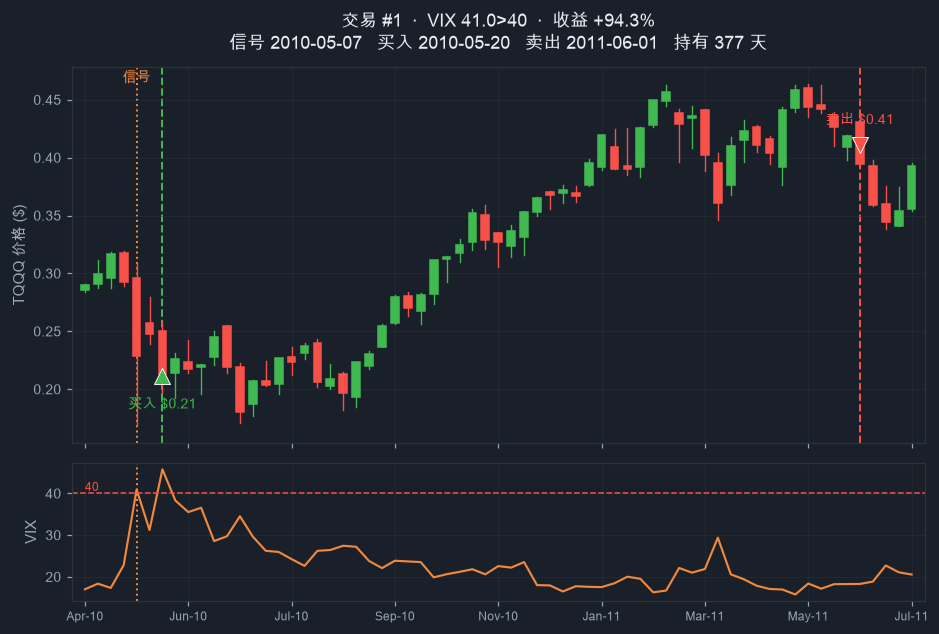
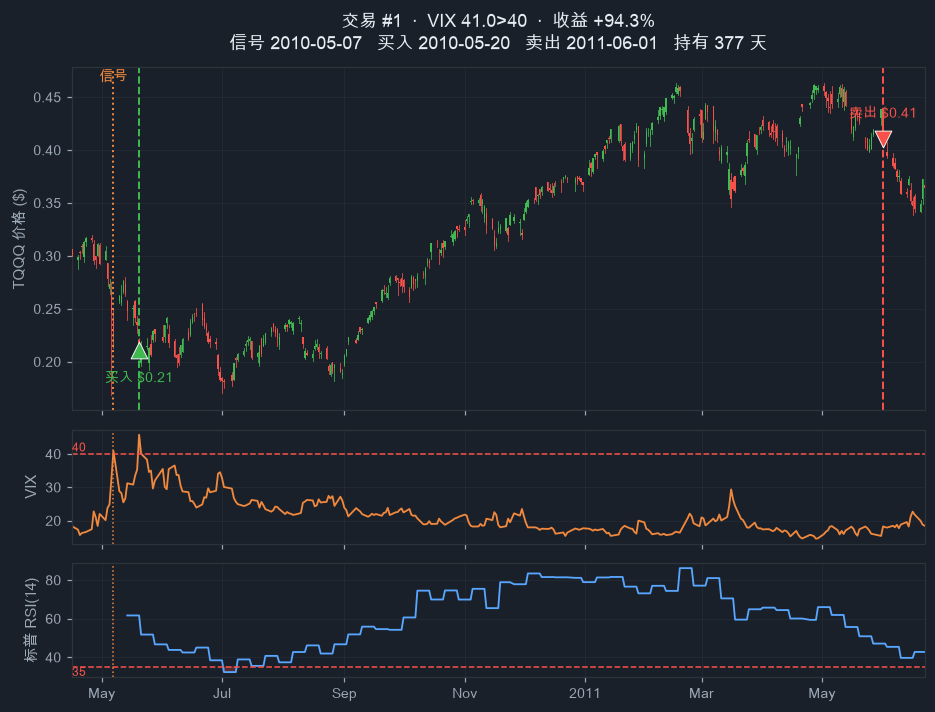
Per-trade charts: daily candles, both VIX+RSI triggers, 1yr range for open trade
Rewrites plot_trades.py to a 3-panel daily, date-axis layout: TQQQ daily
candlesticks plus both trigger panels (VIX with 40 line, S&P weekly RSI with
35 line) shown on every trade with shaded threshold crossings. Open trade
defaults to a full year from entry with a 1-year-minimum-hold reference line.

diff --git a/report.html b/report.html
@@ -165,7 +165,7 @@
   </ul>
 
   <h2>五、逐笔交易图解（按时间倒序）</h2>
-  <p class="note">每张图：上方为 <strong>TQQQ 周线 K 线</strong>，标注信号日（橙色虚线）、买入点（绿色 ▲）与卖出点（红色 ▼）及收益；下方为<strong>触发指标</strong>——VIX（含 40 线）或标普 500 周线 RSI(14)（含 35 线）。由最新交易至最早交易排列。</p>
+  <p class="note">每张图为<strong>日线</strong>三联面板：上方为 <strong>TQQQ 日 K 线</strong>，标注信号日（橙色虚线）、买入点（绿色 ▲）与卖出点（红色 ▼）及收益；中、下两栏<strong>同时展示两个触发指标</strong>——VIX（含 40 线）与标普 500 周线 RSI(14)（含 35 线），红色阴影标出越过阈值的区域（无论该笔由哪个条件触发）。仍持仓的交易默认显示<strong>自买入起 1 年</strong>的时间窗（含「1 年最低持有」参考线）。由最新交易至最早交易排列。</p>
 
   <div class="card"><img src="plots/trade_10.png" alt="交易 #10 K线图"><p class="note">#10 · 2026 年 3 月底回调（SMA RSI 28.2 触发）· 买入 $50.66 · <span class="pos">+41.8%</span> · <strong>持仓中</strong>，期末资金 $3,623,260。</p></div>
   <div class="card"><img src="plots/trade_09.png" alt="交易 #9 K线图"><p class="note">#9 · 2025 年 3 月回调（关税冲击，RSI 32.0）· 满 1 年后于 2026-03-27 标普跌破 MA100 平仓 · <span class="pos">+25.4%</span> · 期末资金 $2,555,399。</p></div>

diff --git a/src/plot_trades.py b/src/plot_trades.py
@@ -1,10 +1,14 @@
 """
 Per-trade charts for the VIX>40 buy-the-fear backtest.
 
-For each of the 10 trades, render a 2-panel chart:
-  - top:    TQQQ weekly candlesticks with signal / entry / exit markers + return
-  - bottom: the triggering indicator over the same window
-            (VIX with the 40 line, or S&P weekly RSI(14) with the 35 line)
+For each trade, render a 3-panel chart on a daily, date-based x-axis:
+  - top:    TQQQ daily candlesticks with signal / entry / exit markers + return
+  - mid:    VIX (with the 40 threshold line)        <- trigger 1
+  - bottom: S&P 500 weekly RSI(14) (with the 35 line) <- trigger 2
+
+Both triggers are always shown, whether or not they fired for that trade.
+Time range = signal..exit (+padding); for a still-open trade it defaults to a
+full year from entry so the position's intended horizon is visible.
 
 Saves plots/trade_01.png ... plots/trade_NN.png.
 """
@@ -16,8 +20,15 @@ import pandas as pd
 import matplotlib
 matplotlib.use("Agg")
 import matplotlib.pyplot as plt
+import matplotlib.dates as mdates
 from matplotlib import font_manager
 from matplotlib.patches import Rectangle
+
+sys.path.insert(0, os.path.dirname(__file__))
+from backtest import (  # noqa: E402
+    build_signals, run_backtest, load_yf,
+    DATA, PLOTS, VIX_THRESHOLD, RSI_THRESHOLD,
+)
 
 # Register a CJK-capable font so Chinese labels render (macOS).
 for _fp in ("/System/Library/Fonts/Supplemental/Arial Unicode.ttf",
@@ -28,31 +39,9 @@ for _fp in ("/System/Library/Fonts/Supplemental/Arial Unicode.ttf",
         break
 plt.rcParams["axes.unicode_minus"] = False
 
-sys.path.insert(0, os.path.dirname(__file__))
-from backtest import (  # noqa: E402
-    build_signals, run_backtest, load_yf, rsi,
-    DATA, PLOTS, RSI_PERIOD, VIX_THRESHOLD, RSI_THRESHOLD,
-)
-
 BG = "#1a2029"; GRID = "#2d333b"; INK = "#e6edf3"; MUTED = "#9aa7b4"
-UP = "#3fb950"; DOWN = "#f85149"; ORANGE = "#f0883e"; BLUE = "#58a6ff"
-
-
-def weekly_ohlc(df):
-    """Resample daily OHLC to weekly (Friday-ending) candles."""
-    w = pd.DataFrame({
-        "Open": df["Open"].resample("W-FRI").first(),
-        "High": df["High"].resample("W-FRI").max(),
-        "Low": df["Low"].resample("W-FRI").min(),
-        "Close": df["Close"].resample("W-FRI").last(),
-    }).dropna()
-    return w
-
-
-def xpos(idx, date):
-    """X index of the weekly candle containing `date`."""
-    pos = idx.searchsorted(pd.Timestamp(date))
-    return min(int(pos), len(idx) - 1)
+UP = "#3fb950"; DOWN = "#f85149"; ORANGE = "#f0883e"; BLUE = "#58a6ff"; GREY = "#6e7681"
+PAD = pd.Timedelta(days=21)
 
 
 def style_ax(ax):
@@ -64,14 +53,9 @@ def style_ax(ax):
 
 
 def main():
-    df = build_signals()
+    df = build_signals()                       # daily: vix_close, weekly_rsi, ...
     trades, _ = run_backtest(df)
-
     tqqq = load_yf(os.path.join(DATA, "tqqq_data.csv"))
-    vix = load_yf(os.path.join(DATA, "vix_data.csv"))
-    spx = load_yf(os.path.join(DATA, "sp500_data.csv"))
-    weekly_rsi = rsi(spx["Close"].resample("W-FRI").last(), RSI_PERIOD)
-    weekly_vix = vix["Close"].resample("W-FRI").max()
     last_date = tqqq.index[-1]
 
     for i, t in trades.iterrows():
@@ -81,85 +65,96 @@ def main():
         exit_d = pd.Timestamp(t["Exit_Date"])
         is_open = t.get("Open_At_End") is True
 
-        start = sig - pd.Timedelta(weeks=4)
-        end = min(exit_d + pd.Timedelta(weeks=4), last_date)
-        w = weekly_ohlc(tqqq.loc[start:end])
-        idx = w.index
-        span = float(w["High"].max() - w["Low"].min()) or 1.0
+        start = sig - PAD
+        end = (ent + pd.Timedelta(days=365)) if is_open else (exit_d + PAD)
+        data_end = min(end, last_date)
+        tq = tqqq.loc[start:data_end]
+        dd = df.loc[start:data_end]
+        span = float(tq["High"].max() - tq["Low"].min()) or 1.0
 
-        fig, (ax1, ax2) = plt.subplots(
-            2, 1, figsize=(10, 6.3), sharex=True,
-            gridspec_kw={"height_ratios": [3, 1.1], "hspace": 0.08})
+        fig, (ax1, ax2, ax3) = plt.subplots(
+            3, 1, figsize=(10, 7.2), sharex=True,
+            gridspec_kw={"height_ratios": [3, 1, 1], "hspace": 0.10})
         fig.patch.set_facecolor(BG)
-        style_ax(ax1); style_ax(ax2)
+        for ax in (ax1, ax2, ax3):
+            style_ax(ax)
 
-        # --- candlesticks ---
-        for j, (_, r) in enumerate(w.iterrows()):
+        # --- daily candlesticks ---
+        for dt, r in tq.iterrows():
+            x = mdates.date2num(dt)
             color = UP if r["Close"] >= r["Open"] else DOWN
-            ax1.plot([j, j], [r["Low"], r["High"]], color=color, lw=0.9, zorder=2)
+            ax1.plot([x, x], [r["Low"], r["High"]], color=color, lw=0.5, zorder=2)
             lo, hi = sorted((r["Open"], r["Close"]))
-            ax1.add_patch(Rectangle((j - 0.3, lo), 0.6, max(hi - lo, span * 0.003),
-                                    facecolor=color, edgecolor=color, zorder=3))
+            ax1.add_patch(Rectangle((x - 0.35, lo), 0.7, max(hi - lo, span * 0.002),
+                                    facecolor=color, edgecolor=color, lw=0, zorder=3))
 
-        xs, xe = xpos(idx, sig), xpos(idx, ent)
-        ax1.axvline(xs, color=ORANGE, ls=":", lw=1.3, zorder=1)
-        ax1.axvline(xe, color=UP, ls="--", lw=1.3, zorder=1)
-        ax1.scatter([xe], [t["Entry_Price"]], marker="^", s=110,
+        ax1.axvline(sig, color=ORANGE, ls=":", lw=1.3)
+        ax1.axvline(ent, color=UP, ls="--", lw=1.3)
+        ax1.scatter([ent], [t["Entry_Price"]], marker="^", s=120,
                     color=UP, edgecolor="white", lw=0.6, zorder=5)
-        ax1.annotate("信号", (xs, w["High"].max()), color=ORANGE, fontsize=9,
-                     ha="center", va="bottom")
-        ax1.annotate(f"买入 ${t['Entry_Price']:.2f}", (xe, t["Entry_Price"]),
+        ax1.annotate(f"买入 ${t['Entry_Price']:.2f}", (ent, t["Entry_Price"]),
                      color=UP, fontsize=9, ha="center", va="top",
                      xytext=(0, -14), textcoords="offset points")
+        ax1.annotate("信号", (sig, tq["High"].max()), color=ORANGE, fontsize=9,
+                     ha="center", va="bottom")
 
         if not is_open:
-            xx = xpos(idx, exit_d)
-            ax1.axvline(xx, color=DOWN, ls="--", lw=1.3, zorder=1)
-            ax1.scatter([xx], [t["Exit_Price"]], marker="v", s=110,
+            ax1.axvline(exit_d, color=DOWN, ls="--", lw=1.3)
+            ax1.scatter([exit_d], [t["Exit_Price"]], marker="v", s=120,
                         color=DOWN, edgecolor="white", lw=0.6, zorder=5)
-            ax1.annotate(f"卖出 ${t['Exit_Price']:.2f}", (xx, t["Exit_Price"]),
+            ax1.annotate(f"卖出 ${t['Exit_Price']:.2f}", (exit_d, t["Exit_Price"]),
                          color=DOWN, fontsize=9, ha="center", va="bottom",
                          xytext=(0, 12), textcoords="offset points")
             exit_lbl = exit_d.strftime("%Y-%m-%d")
         else:
+            hold_end = ent + pd.Timedelta(days=365)
+            ax1.axvline(hold_end, color=GREY, ls=":", lw=1.2)
+            ax1.annotate("1 年最低持有", (hold_end, tq["Low"].min()), color=GREY,
+                         fontsize=8, ha="right", va="bottom",
+                         xytext=(-4, 2), textcoords="offset points")
             exit_lbl = "持仓中"
 
         status = "（持仓中）" if is_open else ""
         ax1.set_title(
             f"交易 #{num}  ·  {t['Trigger']}  ·  收益 {t['Return_%']:+.1f}%{status}\n"
             f"信号 {sig:%Y-%m-%d}   买入 {ent:%Y-%m-%d}   卖出 {exit_lbl}   "
-            f"持有 {int(t['Hold_Days'])} 天",
-            color=INK, fontsize=12, pad=12)
+            f"持有 {int(t['Hold_Days'])} 天", color=INK, fontsize=12, pad=12)
         ax1.set_ylabel("TQQQ 价格 ($)", color=MUTED, fontsize=10)
 
-        # --- trigger indicator panel ---
-        if "VIX" in t["Trigger"]:
-            series = weekly_vix.reindex(idx)
-            ax2.plot(range(len(idx)), series.values, color=ORANGE, lw=1.4)
-            ax2.axhline(VIX_THRESHOLD, color=DOWN, ls="--", lw=1)
-            ax2.set_ylabel("VIX", color=MUTED, fontsize=10)
-            ax2.annotate("40", (0, VIX_THRESHOLD), color=DOWN, fontsize=8,
-                         va="bottom", ha="left")
-        else:
-            series = weekly_rsi.reindex(idx)
-            ax2.plot(range(len(idx)), series.values, color=BLUE, lw=1.4)
-            ax2.axhline(RSI_THRESHOLD, color=DOWN, ls="--", lw=1)
-            ax2.set_ylabel("标普 RSI(14)", color=MUTED, fontsize=10)
-            ax2.annotate("35", (0, RSI_THRESHOLD), color=DOWN, fontsize=8,
-                         va="bottom", ha="left")
-        ax2.axvline(xs, color=ORANGE, ls=":", lw=1.3)
+        # --- trigger 1: VIX ---
+        ax2.plot(dd.index, dd["vix_close"], color=ORANGE, lw=1.2)
+        ax2.axhline(VIX_THRESHOLD, color=DOWN, ls="--", lw=1)
+        ax2.fill_between(dd.index, VIX_THRESHOLD, dd["vix_close"],
+                         where=dd["vix_close"] > VIX_THRESHOLD,
+                         color=DOWN, alpha=0.25)
+        ax2.set_ylabel("VIX", color=MUTED, fontsize=10)
+        ax2.annotate("40", (dd.index[0], VIX_THRESHOLD), color=DOWN, fontsize=8,
+                     va="bottom", ha="left")
 
-        step = max(1, len(idx) // 8)
-        ticks = list(range(0, len(idx), step))
-        ax2.set_xticks(ticks)
-        ax2.set_xticklabels([idx[k].strftime("%b-%y") for k in ticks], fontsize=8)
-        ax1.set_xlim(-1, len(idx))
+        # --- trigger 2: S&P weekly RSI(14) ---
+        ax3.plot(dd.index, dd["weekly_rsi"], color=BLUE, lw=1.2)
+        ax3.axhline(RSI_THRESHOLD, color=DOWN, ls="--", lw=1)
+        ax3.fill_between(dd.index, RSI_THRESHOLD, dd["weekly_rsi"],
+                         where=dd["weekly_rsi"] < RSI_THRESHOLD,
+                         color=DOWN, alpha=0.25)
+        ax3.set_ylabel("标普 RSI(14)", color=MUTED, fontsize=10)
+        ax3.annotate("35", (dd.index[0], RSI_THRESHOLD), color=DOWN, fontsize=8,
+                     va="top", ha="left")
+
+        for ax in (ax2, ax3):
+            ax.axvline(sig, color=ORANGE, ls=":", lw=1.0)
+
+        # date axis spanning the full intended range (blank after data for open trades)
+        ax1.set_xlim(mdates.date2num(start), mdates.date2num(end))
+        loc = mdates.AutoDateLocator()
+        ax3.xaxis.set_major_locator(loc)
+        ax3.xaxis.set_major_formatter(mdates.ConciseDateFormatter(loc))
 
         fig.savefig(os.path.join(PLOTS, f"trade_{num:02d}.png"),
                     dpi=110, bbox_inches="tight", facecolor=BG)
         plt.close(fig)
         print(f"trade_{num:02d}.png  {t['Trigger']:<22s} {t['Return_%']:+6.1f}%  "
-              f"({len(idx)} weekly candles)")
+              f"{start.date()}..{end.date()}{' (open/1yr)' if is_open else ''}")
 
 
 if __name__ == "__main__":
